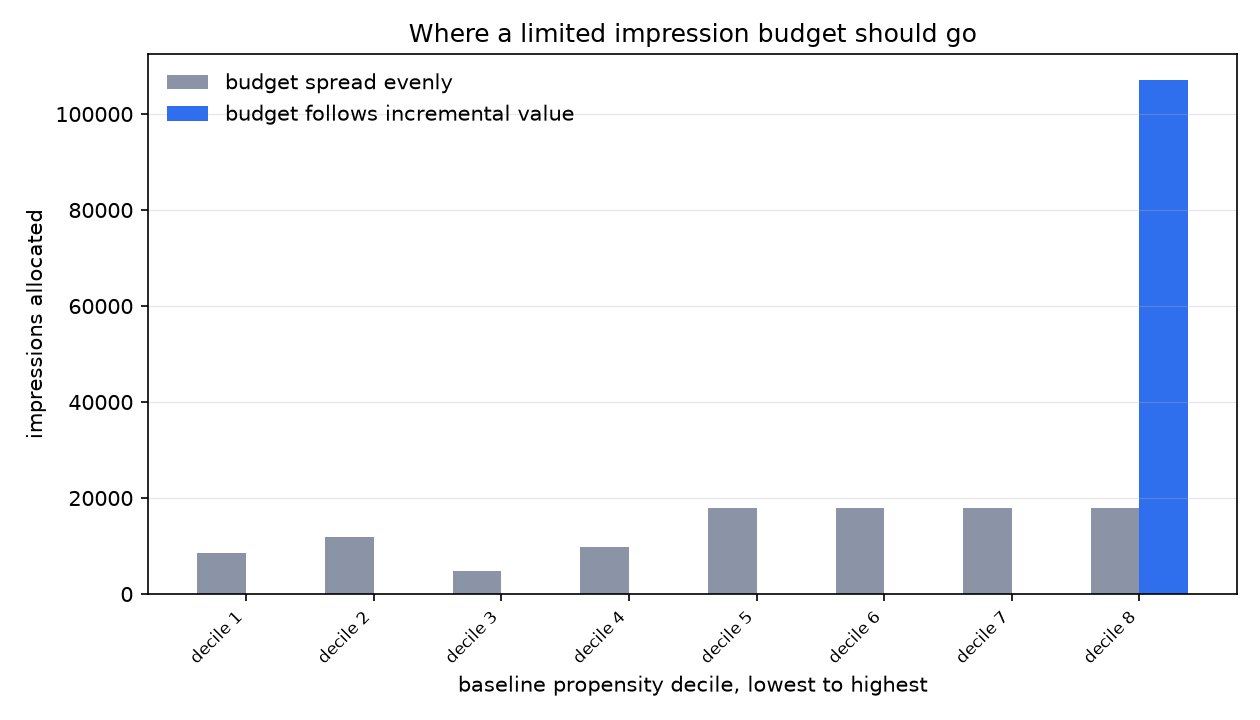
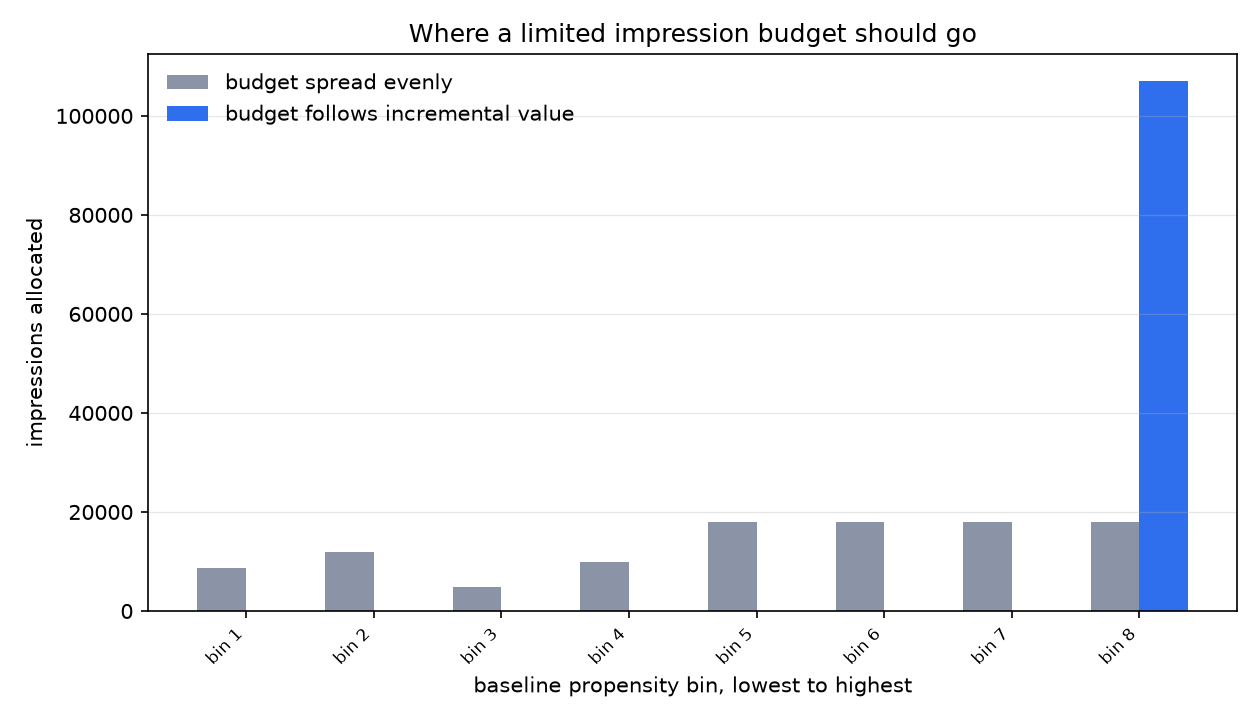
updated code

diff --git a/src/expengine/viz/plots.py b/src/expengine/viz/plots.py
@@ -26,7 +26,8 @@ def _save(figure, path: Path) -> Path:
 
 def plot_balance(table: pd.DataFrame, path: Path, threshold: float) -> Path:
     figure, axes = plt.subplots(figsize=FIGURE_SIZE)
-    ordered = table.sort_values("feature")
+    positions_by_index = table["feature"].str.extract(r"(\d+)", expand=False).astype(int)
+    ordered = table.assign(feature_index=positions_by_index).sort_values("feature_index")
     positions = np.arange(ordered.shape[0])
     axes.barh(positions, ordered["standardised_mean_difference"], color=COLOR_PRIMARY)
     axes.set_yticks(positions)
@@ -35,7 +36,7 @@ def plot_balance(table: pd.DataFrame, path: Path, threshold: float) -> Path:
     axes.axvline(threshold, color=COLOR_ALERT, linestyle="--", linewidth=0.9)
     axes.axvline(-threshold, color=COLOR_ALERT, linestyle="--", linewidth=0.9)
     axes.set_xlabel("standardised mean difference, treated minus control")
-    axes.set_title("Randomisation check on the 12 pre-treatment features")
+    axes.set_title("Randomisation check on the 12 anonymised features")
     axes.grid(axis="x", alpha=0.3, linewidth=0.6)
     return _save(figure, path)
 
@@ -238,7 +239,7 @@ def plot_allocation(table: pd.DataFrame, path: Path) -> Path:
     )
     axes.set_xticks(positions)
     axes.set_xticklabels(table["segment"], rotation=45, ha="right", fontsize=8)
-    axes.set_xlabel("baseline propensity decile, lowest to highest")
+    axes.set_xlabel("baseline propensity bin, lowest to highest")
     axes.set_ylabel("impressions allocated")
     axes.set_title("Where a limited impression budget should go")
     axes.grid(axis="y", alpha=0.3, linewidth=0.6)

diff --git a/src/expengine/pipeline.py b/src/expengine/pipeline.py
@@ -334,7 +334,7 @@ def run(skip_figures: bool = False, refit: bool = False) -> dict:
         f"{segment_result['significant_corrected']} after"
     )
 
-    log("budget allocation across baseline propensity deciles")
+    log("budget allocation across baseline propensity bins")
     covariate = covariates[config.PRIMARY_OUTCOME]
     bins = segments.assign_bins(
         covariate, segments.quantile_edges(covariate, config.ALLOCATION_BINS)
@@ -358,7 +358,7 @@ def run(skip_figures: bool = False, refit: bool = False) -> dict:
         )
         allocation_rows.append(
             {
-                "segment": f"decile {int(bin_index) + 1}",
+                "segment": f"bin {int(bin_index) + 1}",
                 "rows_treated": rows_bin_treated,
                 "rows_control": rows_bin_control,
                 "impressions": impressions,

diff --git a/README.md b/README.md
@@ -1,12 +1,16 @@
 # Experiment analysis engine
 
-An analysis engine for one large randomised advertising experiment. It reads the raw Criteo uplift file, checks whether the randomisation held, estimates the effect four different ways, and ends with a budget split that follows from those estimates.
+An analysis engine for one large randomised advertising experiment. It reads the raw Criteo uplift file, checks whether the randomisation held, estimates the effect on assignment and on the users who actually saw an ad, and ends with a budget split that follows from those estimates.
+
+[![CI](https://github.com/adwitiyashukla/experiment-analysis-engine/actions/workflows/ci.yml/badge.svg)](https://github.com/adwitiyashukla/experiment-analysis-engine/actions/workflows/ci.yml)
+![Python](https://img.shields.io/badge/python-3.10%20to%203.13-blue)
+![License](https://img.shields.io/badge/license-MIT-green)
 
 Every number below was measured on the full file of 13,979,592 users. The run writes them to `artifacts/run_summary.json` and this README quotes that file.
 
 ## The experiment
 
-Criteo published the logs of a randomised advertising experiment. Each row is one user. The user was assigned to treatment or control, treated users became eligible to see an ad, and the row records whether the user visited the advertiser and whether the user converted. Twelve features describe the user before assignment. They are anonymised, so there is nothing to read into them beyond their values.
+Criteo published the logs of a randomised advertising experiment. Each row is one user. The user was assigned to treatment or control, treated users became eligible to see an ad, and the row records whether the user visited the advertiser and whether the user converted. Twelve features describe each user. Criteo publishes them anonymised as f0 to f11, with no description and no statement of when they were recorded, so this engine treats them as covariates and nothing more.
 
 The file is the [Criteo uplift prediction dataset](https://ailab.criteo.com/criteo-uplift-prediction-dataset/), released with [A Large Scale Benchmark for Uplift Modeling](http://papers.adkdd.org/2018/papers/adkdd18-diemert-large-scale.pdf) at AdKDD 2018. This engine expects version 2.1, which is also mirrored on [Hugging Face](https://huggingface.co/datasets/criteo/criteo-uplift).
 
@@ -37,7 +41,7 @@ The whole run is one command. It moves through these stages.
 9. Incrementality. The conversions that simple attribution would claim are set against the conversions the experiment says were caused.
 10. Power. The smallest effect this design could detect, and the sample size the observed effect needed.
 11. Segments. Effects inside quartiles of each feature, with Benjamini Hochberg control across the whole family.
-12. Allocation. Impressions are ranked by the effect in each covariate decile, and a fixed budget is spent greedily against an even split.
+12. Allocation. Impressions are ranked by the effect in each covariate bin, and a fixed budget is spent greedily against an even split.
 
 ## Results
 
@@ -49,7 +53,7 @@ The features are a different matter.
 
 ![Randomisation check on the twelve features](reports/figures/balance_smd.png)
 
-The largest standardised mean difference across the twelve features is 0.0488 on f3 and the mean is 0.0207, both under the 0.10 the engine treats as a practical failure, so the guardrail passes. The z statistics are another story. f3 sits 67 standard errors away from its control mean, and all 12 of them sit beyond three. At fourteen million rows a gap this small is still far larger than sampling noise, so the two arms are close but not interchangeable. That comes back in the next section.
+The largest standardised mean difference across the twelve features is 0.0488 on f3 and the mean is 0.0207, both under the 0.10 the engine treats as a practical failure, so the guardrail passes. The z statistics are another story. f3 sits 67 standard errors away from its control mean, and all 12 of them sit beyond three. At fourteen million rows a gap this small is still far larger than sampling noise, so the two arms are close but not interchangeable. Either the assignment was not perfectly clean, or not every feature was recorded before assignment, and the dataset does not document enough to separate those two. Whichever it is, the next section shows it moving the estimate.
 
 ### The effect of being assigned to treatment
 
@@ -115,9 +119,9 @@ Every feature is cut into quartiles, which leaves 23 usable segments once ties c
 
 ![Greedy allocation against an even split](reports/figures/allocation.png)
 
-Users are placed in deciles of the control variate, which is a baseline propensity to convert, and each decile gets its own effect estimate. Take 25 percent of the impressions the campaign actually served, 107,053 of them, and spend them greedily on the deciles with the largest effect per impression. That gives 5,244 incremental conversions against 1,786 for an even split, a factor of 2.94.
+Users are placed in quantile bins of the control variate, which is a baseline propensity to convert, and each bin gets its own effect estimate. Ten cuts collapse to eight bins because the model gives many users the same predicted rate. Take 25 percent of the impressions the campaign actually served, 107,053 of them, and spend them greedily on the bins with the largest effect per impression. That gives 5,244 incremental conversions against 1,786 for an even split, a factor of 2.94.
 
-The same data both ranks the deciles and scores the gain, so the factor is closer to an upper bound than to a forecast.
+The same data both ranks the bins and scores the gain, so the factor is closer to an upper bound than to a forecast.
 
 ## Running it
 
@@ -134,7 +138,7 @@ expengine verify
 expengine run
 ```
 
-`verify` builds the parquet cache and checks the published facts. `run` walks every stage and writes to `artifacts/` and `reports/figures/`. Fitting the control variate is nearly the whole cost. A first run took about twenty minutes on my laptop, sixteen of them predicting the covariate for every user. The fitted covariate is cached in `data/processed/control_variate.npz`, so the next run finished the same twelve stages in 37 seconds. Pass `--refit` to fit it again, or `--skip-figures` for the tables alone.
+`verify` builds the parquet cache and checks the published facts. `run` walks every stage and writes to `artifacts/` and `reports/figures/`. Fitting the control variate is nearly the whole cost. A first run took about twenty minutes on my laptop, sixteen of them predicting the covariate for every user. The fitted covariate is cached in `data/processed/control_variate.npz`, so the next run gets through all twelve stages in about a minute. Pass `--refit` to fit it again, or `--skip-figures` for the tables alone.
 
 Set `EXPENGINE_RAW_DIR`, `EXPENGINE_PROCESSED_DIR`, `EXPENGINE_ARTIFACTS_DIR` or `EXPENGINE_FIGURES_DIR` to move any of those folders somewhere else.
 
